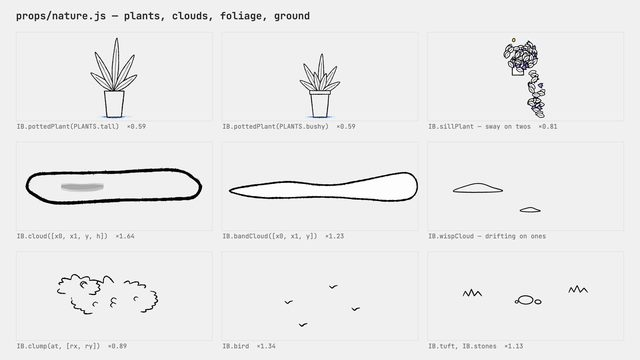
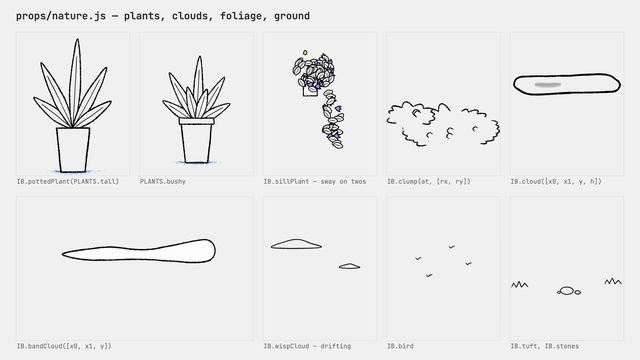
fix: props/nature 견본을 1:1 칸으로
시범 견본 가운데 이것만 1:1 규칙(00cc43c)보다 먼저 써서, 칸 배율이 ×0.59–×1.64였다. 확대된 칸은 선이 굵어져 룩을 틀리게 보여 준다. 클로드 작업자 검토가 잡았다.

- grid(10, 5)의 342×432 칸과 넓은 칸(bandCloud) 하나로 다시 짰다. 모든 칸이 1:1이고, 라벨에 배율이 붙지 않는다.
- wispCloud의 흐름은 견본이 정한 값(초당 30 px)이라 칸에 들도록 15 px로 줄였다.

Claude-Session: https://claude.ai/code/session_01SxpfC2T1LyEk5ytvqY9P1D

diff --git a/IBM/parts/props/nature.html b/IBM/parts/props/nature.html
@@ -18,16 +18,16 @@ MG.scene({
   render(t, ctx) {
     IB.bg(ctx);
     SAMPLE.title(ctx, 'props/nature.js — plants, clouds, foliage, ground');
-    const f = IB.frame(t), c = SAMPLE.grid(9, 3);
-    SAMPLE.cell(ctx, c[0], [1640 - 300, 930 - 430, 600, 450], () => IB.pottedPlant(ctx, [1640, 930], IB.PLANTS.tall), 'IB.pottedPlant(PLANTS.tall)');
-    SAMPLE.cell(ctx, c[1], [1640 - 300, 930 - 430, 600, 450], () => IB.pottedPlant(ctx, [1640, 930], IB.PLANTS.bushy), 'IB.pottedPlant(PLANTS.bushy)');
-    SAMPLE.cell(ctx, c[2], [1560, 620, 260, 330], () => IB.sillPlant(ctx, { sway: IB.loop(f, [0, 0.07, -0.05]) }), 'IB.sillPlant — sway on twos');
-    SAMPLE.cell(ctx, c[3], [280, 70, 360, 150], () => IB.cloud(ctx, [300, 618, 145, 58]), 'IB.cloud([x0, x1, y, h])');
-    SAMPLE.cell(ctx, c[4], [520, 0, 480, 140], () => IB.bandCloud(ctx, [540, 975, 68]), 'IB.bandCloud([x0, x1, y])');
-    SAMPLE.cell(ctx, c[5], [860, 150, 600, 270], () => { IB.wispCloud(ctx, [1100 - (t % 4) * 30, 300], { w: 150 }); IB.wispCloud(ctx, [1260 - (t % 4) * 30, 360], { w: 62, seed: 61 }); }, 'IB.wispCloud — drifting on ones');
-    SAMPLE.cell(ctx, c[6], [700, 640, 500, 300], () => { IB.clump(ctx, [950, 800], [150, 60], { seed: 501 }); IB.clump(ctx, [830, 760], [70, 30], { seed: 502 }); }, 'IB.clump(at, [rx, ry])');
-    SAMPLE.cell(ctx, c[7], [100, 300, 400, 200], () => [[230, 415], [262, 466], [330, 380], [380, 430]].forEach((b) => IB.bird(ctx, b)), 'IB.bird');
-    SAMPLE.cell(ctx, c[8], [700, 760, 520, 200], () => { IB.tuft(ctx, [820, 860], { seed: 3 }); IB.stones(ctx, [960, 870], { seed: 5 }); IB.tuft(ctx, [1100, 850], { seed: 7 }); }, 'IB.tuft, IB.stones');
+    const f = IB.frame(t), c = SAMPLE.grid(10, 5), band = SAMPLE.span(c, 5, 6);   // 1:1 cells: each window is its cell's size
+    SAMPLE.cell(ctx, c[0], SAMPLE.fit(c[0], [1640, 930], 12), () => IB.pottedPlant(ctx, [1640, 930], IB.PLANTS.tall), 'IB.pottedPlant(PLANTS.tall)');
+    SAMPLE.cell(ctx, c[1], SAMPLE.fit(c[1], [1640, 930]), () => IB.pottedPlant(ctx, [1640, 930], IB.PLANTS.bushy), 'PLANTS.bushy');
+    SAMPLE.cell(ctx, c[2], SAMPLE.fit(c[2], [1690, 980]), () => IB.sillPlant(ctx, { sway: IB.loop(f, [0, 0.07, -0.05]) }), 'IB.sillPlant — sway on twos');
+    SAMPLE.cell(ctx, c[3], SAMPLE.fit(c[3], [928, 900]), () => { IB.clump(ctx, [950, 800], [150, 60], { seed: 501 }); IB.clump(ctx, [830, 760], [70, 30], { seed: 502 }); }, 'IB.clump(at, [rx, ry])');
+    SAMPLE.cell(ctx, c[4], SAMPLE.fit(c[4], [459, 380]), () => IB.cloud(ctx, [300, 618, 145, 58]), 'IB.cloud([x0, x1, y, h])');
+    SAMPLE.cell(ctx, band, SAMPLE.fit(band, [757, 300]), () => IB.bandCloud(ctx, [540, 975, 68]), 'IB.bandCloud([x0, x1, y])');
+    SAMPLE.cell(ctx, c[7], SAMPLE.fit(c[7], [1128, 540]), () => { IB.wispCloud(ctx, [1100 - (t % 4) * 15, 300], { w: 150 }); IB.wispCloud(ctx, [1260 - (t % 4) * 15, 360], { w: 62, seed: 61 }); }, 'IB.wispCloud — drifting');
+    SAMPLE.cell(ctx, c[8], SAMPLE.fit(c[8], [305, 620]), () => [[230, 415], [262, 466], [330, 380], [380, 430]].forEach((b) => IB.bird(ctx, b)), 'IB.bird');
+    SAMPLE.cell(ctx, c[9], SAMPLE.fit(c[9], [960, 980]), () => { IB.tuft(ctx, [820, 860], { seed: 3 }); IB.stones(ctx, [960, 870], { seed: 5 }); IB.tuft(ctx, [1100, 850], { seed: 7 }); }, 'IB.tuft, IB.stones');
   },
 });
 </script>
